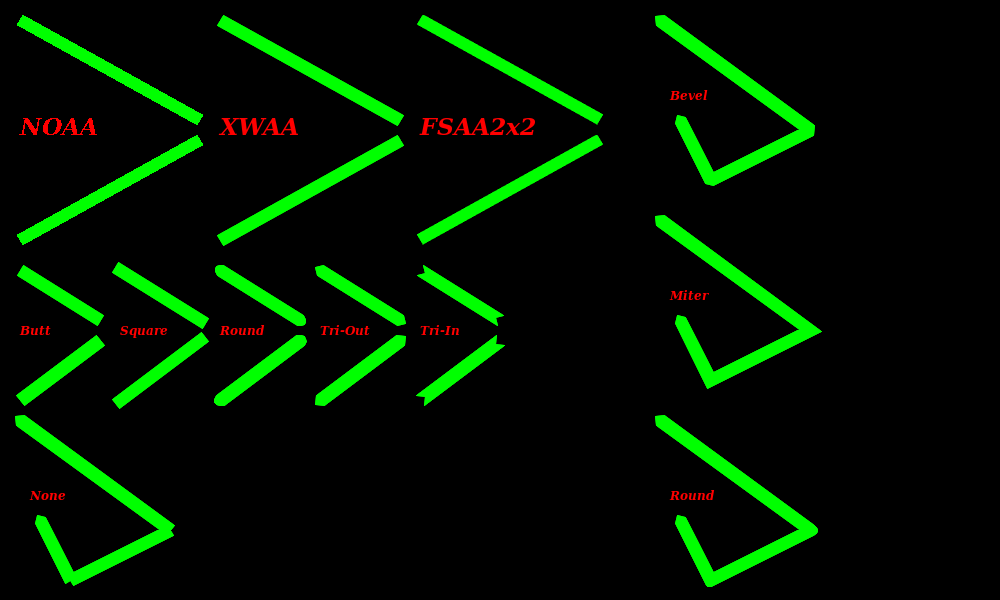
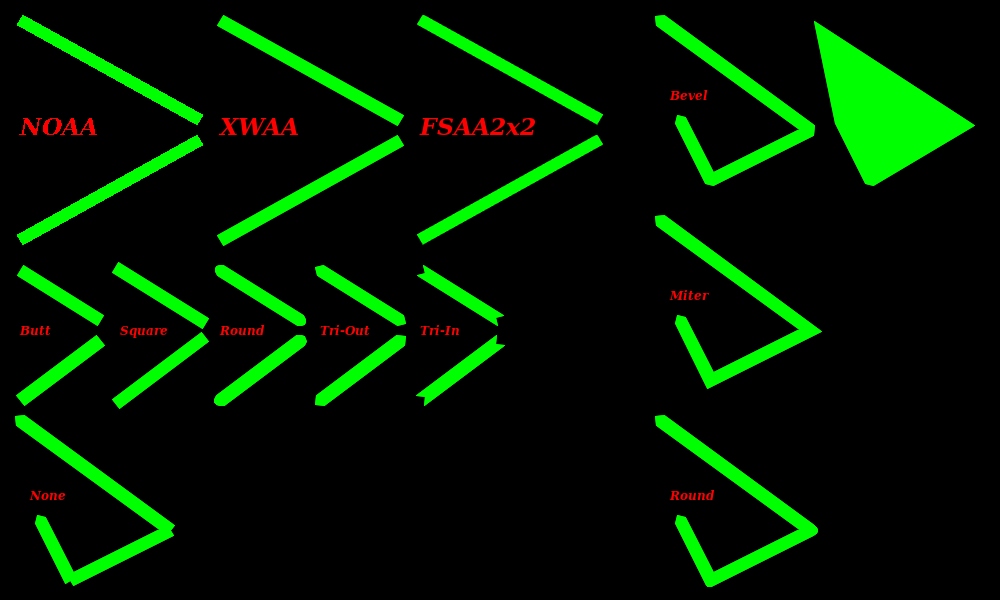
Working on thick polygon

Changed region(s): [[0.806, 0.03, 0.992, 0.33]]

diff --git a/src/Pt-Gfx/ImagePainter2.cpp b/src/Pt-Gfx/ImagePainter2.cpp
@@ -495,14 +495,20 @@ void ImagePainter2::generatePatternedLineSegment(std::vector<PointF>& dst, float
 
 bool ImagePainter2::thickenOpenPolygon(std::vector<PointF>& pointsF, const PointF* basePtr, size_t curPCnt)
 {
+    // Prepare the buffers
     std::vector<PointF> pointsFPolygon;
     std::vector<PointF> pointsFInner;
     std::vector<PointF> pointsFSegment;
 
+    pointsFPolygon.reserve(curPCnt * 2              );
+    pointsFInner  .reserve(curPCnt * 2              );
+    pointsFSegment.reserve(_rasterizer->pen().size());
+
+    // Get the number of point
     const size_t curPC1 = curPCnt - 1;
     const size_t curPC2 = curPCnt - 2;
 
-    // Walk thorugh the polygon's lines
+    // Walk through the polygon's lines
     for(size_t i = 0; i < curPC1; ++i) {
         // Get the coordinates
         const PointF& from = *basePtr++;
@@ -563,6 +569,211 @@ bool ImagePainter2::combineLineSegmentForOpenPolygon(std::vector<PointF>& polygo
     if(!intersectLine(inLine, intersect, *line1a, *line1b, *line2a, *line2b)) return false;
 
     // Store the "outside" line's points
+    const Pen::JoinStyle js1 = inLine ? Pen::MiterJoin : _rasterizer->pen().joinStyle();
+    switch(js1) {
+        // No join
+        case Pen::NoJoin:
+            proc.push_back(*line1b);
+            proc.push_back(origMeetingPoint);
+            proc.push_back(*line2a);
+            break;
+        // Bevel join
+        case Pen::BevelJoin:
+            proc.push_back(*line1b);
+            proc.push_back(*line2a);
+            break;
+        // Miter join
+        case Pen::MiterJoin:
+            proc.push_back(intersect);
+            break;
+        // Round join
+        case Pen::RoundJoin:
+            generateQuadraticBezierPoints(
+                proc,
+                round(line1b  ->x()), round(line1b  ->y()),
+                round(intersect.x()), round(intersect.y()),
+                round(line2a  ->x()), round(line2a  ->y()),
+                ceil(penWidth / 2.0f) - 1
+            );
+            break;
+        // Invalid join type
+        default:
+            return false;
+    }
+
+    // Store points #2 to #N from the segment
+    const size_t N2 = segment.size() - 1;
+    for(size_t i = 2; i <= N2; ++i) proc.push_back(segment[i]);
+
+    // Get the "inside" lines
+    line1a = &polygon[0 ];
+    line1b = &polygon[N1];
+    line2a = &segment[0 ];
+    line2b = &segment[N2];
+    if(!inner.empty()) line1a = &inner.back();
+
+    // Intersect the "inside" lines
+    if(!intersectLine(inLine, intersect, *line1a, *line1b, *line2a, *line2b)) return false;
+
+    // Store the "inside" line's points
+    const Pen::JoinStyle js2 = inLine ? Pen::MiterJoin : _rasterizer->pen().joinStyle();
+    switch(js2) {
+        // No join
+        case Pen::NoJoin:
+            inner.push_back(*line1b);
+            inner.push_back(origMeetingPoint);
+            inner.push_back(*line2a);
+            break;
+        // Bevel join
+        case Pen::BevelJoin:
+            inner.push_back(*line1b);
+            inner.push_back(*line2a);
+            break;
+        // Miter join
+        case Pen::MiterJoin:
+            inner.push_back(intersect);
+            break;
+        // Round join
+        case Pen::RoundJoin:
+            generateQuadraticBezierPoints(
+                inner,
+                round(line1b  ->x()), round(line1b  ->y()),
+                round(intersect.x()), round(intersect.y()),
+                round(line2a  ->x()), round(line2a  ->y()),
+                ceil(penWidth / 2.0f) - 1
+            );
+            break;
+        // Invalid join type
+        default:
+            return false;
+    }
+
+    // Transfer the points back to the main polygon buffer
+    polygon.resize(proc.size());
+    for(size_t i = 0; i < proc.size(); ++i) polygon[i] = proc[i];
+
+    // Done
+    return true;
+}
+
+void ImagePainter2::finalizeLineSegmentForOpenPolygon(std::vector<PointF>& polygon, const std::vector<PointF>& inner)
+{
+    // Store the "inside" line's points to the main polygon buffer in reverse
+    polygon.insert(polygon.end(), inner.rbegin(), inner.rend());
+}
+
+bool ImagePainter2::thickenClosedPolygon(std::vector<PointF>& pointsF, const PointF* basePtr, size_t curPCnt)
+{
+    // Prepare the buffers
+    std::vector<PointF> pointsFOuter;
+    std::vector<PointF> pointsFInner;
+    std::vector<PointF> pointsFSegment;
+
+    pointsFOuter  .reserve(curPCnt * 2              );
+    pointsFInner  .reserve(curPCnt * 2              );
+    pointsFSegment.reserve(_rasterizer->pen().size());
+
+    // Get the number of point
+    const size_t curPC1 = curPCnt - 1;
+
+    // Walk through the polygon's lines
+    const PointF* ptrZero = basePtr;
+    for(size_t i = 0; i <= curPC1; ++i) {
+        // Get the coordinates
+        const PointF& from = *basePtr++;
+        const PointF& to   = (i == curPC1) ? *ptrZero : *basePtr;
+        // Solid line
+        if(_rasterizer->pen().style() == Pen::Solid) {
+            pointsFSegment.clear();
+            generateSolidLineSegment(pointsFSegment, from.x(), from.y(), to.x(), to.y(), false, false);
+            if(!combineLineSegmentForClosedPolygon(pointsFOuter, pointsFInner, pointsFSegment, from)) return false;
+        }
+        // Patterned line
+        else {
+            // ### TODO ###
+            return false;
+        }
+    }
+
+    // Combine the polygon data
+    if(!pointsF.empty()) pointsF.push_back(Painter::PolygonSeparatorPointF);
+    pointsF.insert(pointsF.end(), pointsFOuter.begin(), pointsFOuter.end());
+
+   //    if(!pointsF.empty()) pointsF.push_back(Painter::PolygonSeparatorPointF);
+   // pointsF.insert(pointsF.end(), pointsFInner.begin(), pointsFInner.end());
+
+    // Done
+    return true;
+}
+
+bool ImagePainter2::combineLineSegmentForClosedPolygon(std::vector<PointF>& outer, std::vector<PointF>& inner, const std::vector<PointF>& segment, const PointF& origMeetingPoint)
+{
+    // If the main polygon buffer is still empty, simply copy the points
+    if(outer.empty()) {
+        outer.push_back(segment[1]);
+        outer.push_back(segment[2]);
+        inner.push_back(segment[0]);
+        inner.push_back(segment[3]);
+        return true;
+    }
+
+    // Get the width of the pen
+    const size_t penWidth = _rasterizer->pen().size();
+
+    // Get the "outside" lines
+    const size_t  N1     = outer.size() - 1;
+    const PointF* line1a = &outer[N1 - 1];
+    const PointF* line1b = &outer[N1 - 0];
+    const PointF* line2a = &segment[1];
+    const PointF* line2b = &segment[2];
+
+    // Intersect the "outside" lines
+    bool   inLine;
+    PointF intersect;
+    if(!intersectLine(inLine, intersect, *line1a, *line1b, *line2a, *line2b)) return false;
+
+    // Store the "outside" line's points
+    const Pen::JoinStyle js = inLine ? Pen::MiterJoin : _rasterizer->pen().joinStyle();
+    outer.pop_back();
+    switch(js) {
+        // No join
+        case Pen::NoJoin:
+            return false;
+            outer.push_back(*line1b);
+            outer.push_back(origMeetingPoint);
+            outer.push_back(*line2a);
+            break;
+        // Bevel join
+        case Pen::BevelJoin:
+            outer.push_back(*line1b);
+            outer.push_back(*line2a);
+            break;
+        // Miter join
+        case Pen::MiterJoin:
+            return false;
+            outer.push_back(intersect);
+            break;
+        // Round join
+        case Pen::RoundJoin:
+            return false;
+            generateQuadraticBezierPoints(
+                outer,
+                round(line1b  ->x()), round(line1b  ->y()),
+                round(intersect.x()), round(intersect.y()),
+                round(line2a  ->x()), round(line2a  ->y()),
+                ceil(penWidth / 2.0f) - 1
+            );
+            break;
+        // Invalid join type
+        default:
+            return false;
+    }
+
+    // Done
+    return true;
+
+    /*
+    // Store the "outside" line's points
     if(inLine) {
         proc.push_back(intersect);
     }
@@ -598,7 +809,13 @@ bool ImagePainter2::combineLineSegmentForOpenPolygon(std::vector<PointF>& polygo
                 return false;
         }
     }
+*/
+    // Transfer the points back to the outer polygon buffer
+    //outer.resize(0);
+   // outer.insert(outer.begin(), proc.begin(), proc.end());
 
+
+    /*
     // Store points #2 to #N from the segment
     const size_t N2 = segment.size() - 1;
     for(size_t i = 2; i <= N2; ++i) proc.push_back(segment[i]);
@@ -650,34 +867,7 @@ bool ImagePainter2::combineLineSegmentForOpenPolygon(std::vector<PointF>& polygo
         }
     }
 
-    // Transfer the points
-    polygon = proc;
-
-    // Done
-    return true;
-}
-
-void ImagePainter2::finalizeLineSegmentForOpenPolygon(std::vector<PointF>& polygon, const std::vector<PointF>& inner)
-{
-    // Store the "inside" line's points to the main polygon buffer in reverse
-    polygon.insert(polygon.end(), inner.rbegin(), inner.rend());
-}
-
-bool ImagePainter2::thickenClosedPolygon(std::vector<PointF>& pointsF, const PointF* basePtr, size_t curPCnt)
-{
-    // ### TODO ###
-    return false;
-}
-
-bool ImagePainter2::combineLineSegmentForClosedPolygon(std::vector<PointF>& outer, std::vector<PointF>& inner, const std::vector<PointF>& segment, const PointF& origMeetingPoint)
-{
-    // ### TODO ###
-    return false;
-}
-
-void ImagePainter2::finalizeLineSegmentForClosedPolygon(std::vector<PointF>& outer, std::vector<PointF>& inner, const std::vector<PointF>& segment)
-{
-    // ### TODO ###
+*/
 }
 
 

diff --git a/include/Pt/Gfx/ImagePainter2.h b/include/Pt/Gfx/ImagePainter2.h
@@ -140,7 +140,6 @@ class PT_GFX_API ImagePainter2 : public Painter
 
         bool thickenClosedPolygon(std::vector<PointF>& pointsF, const PointF* basePtr, size_t curPCnt);
         bool combineLineSegmentForClosedPolygon(std::vector<PointF>& outer, std::vector<PointF>& inner, const std::vector<PointF>& segment, const PointF& origMeetingPoint);
-        void finalizeLineSegmentForClosedPolygon(std::vector<PointF>& outer, std::vector<PointF>& inner, const std::vector<PointF>& segment);
 
     private:
         RectF           _clip;
